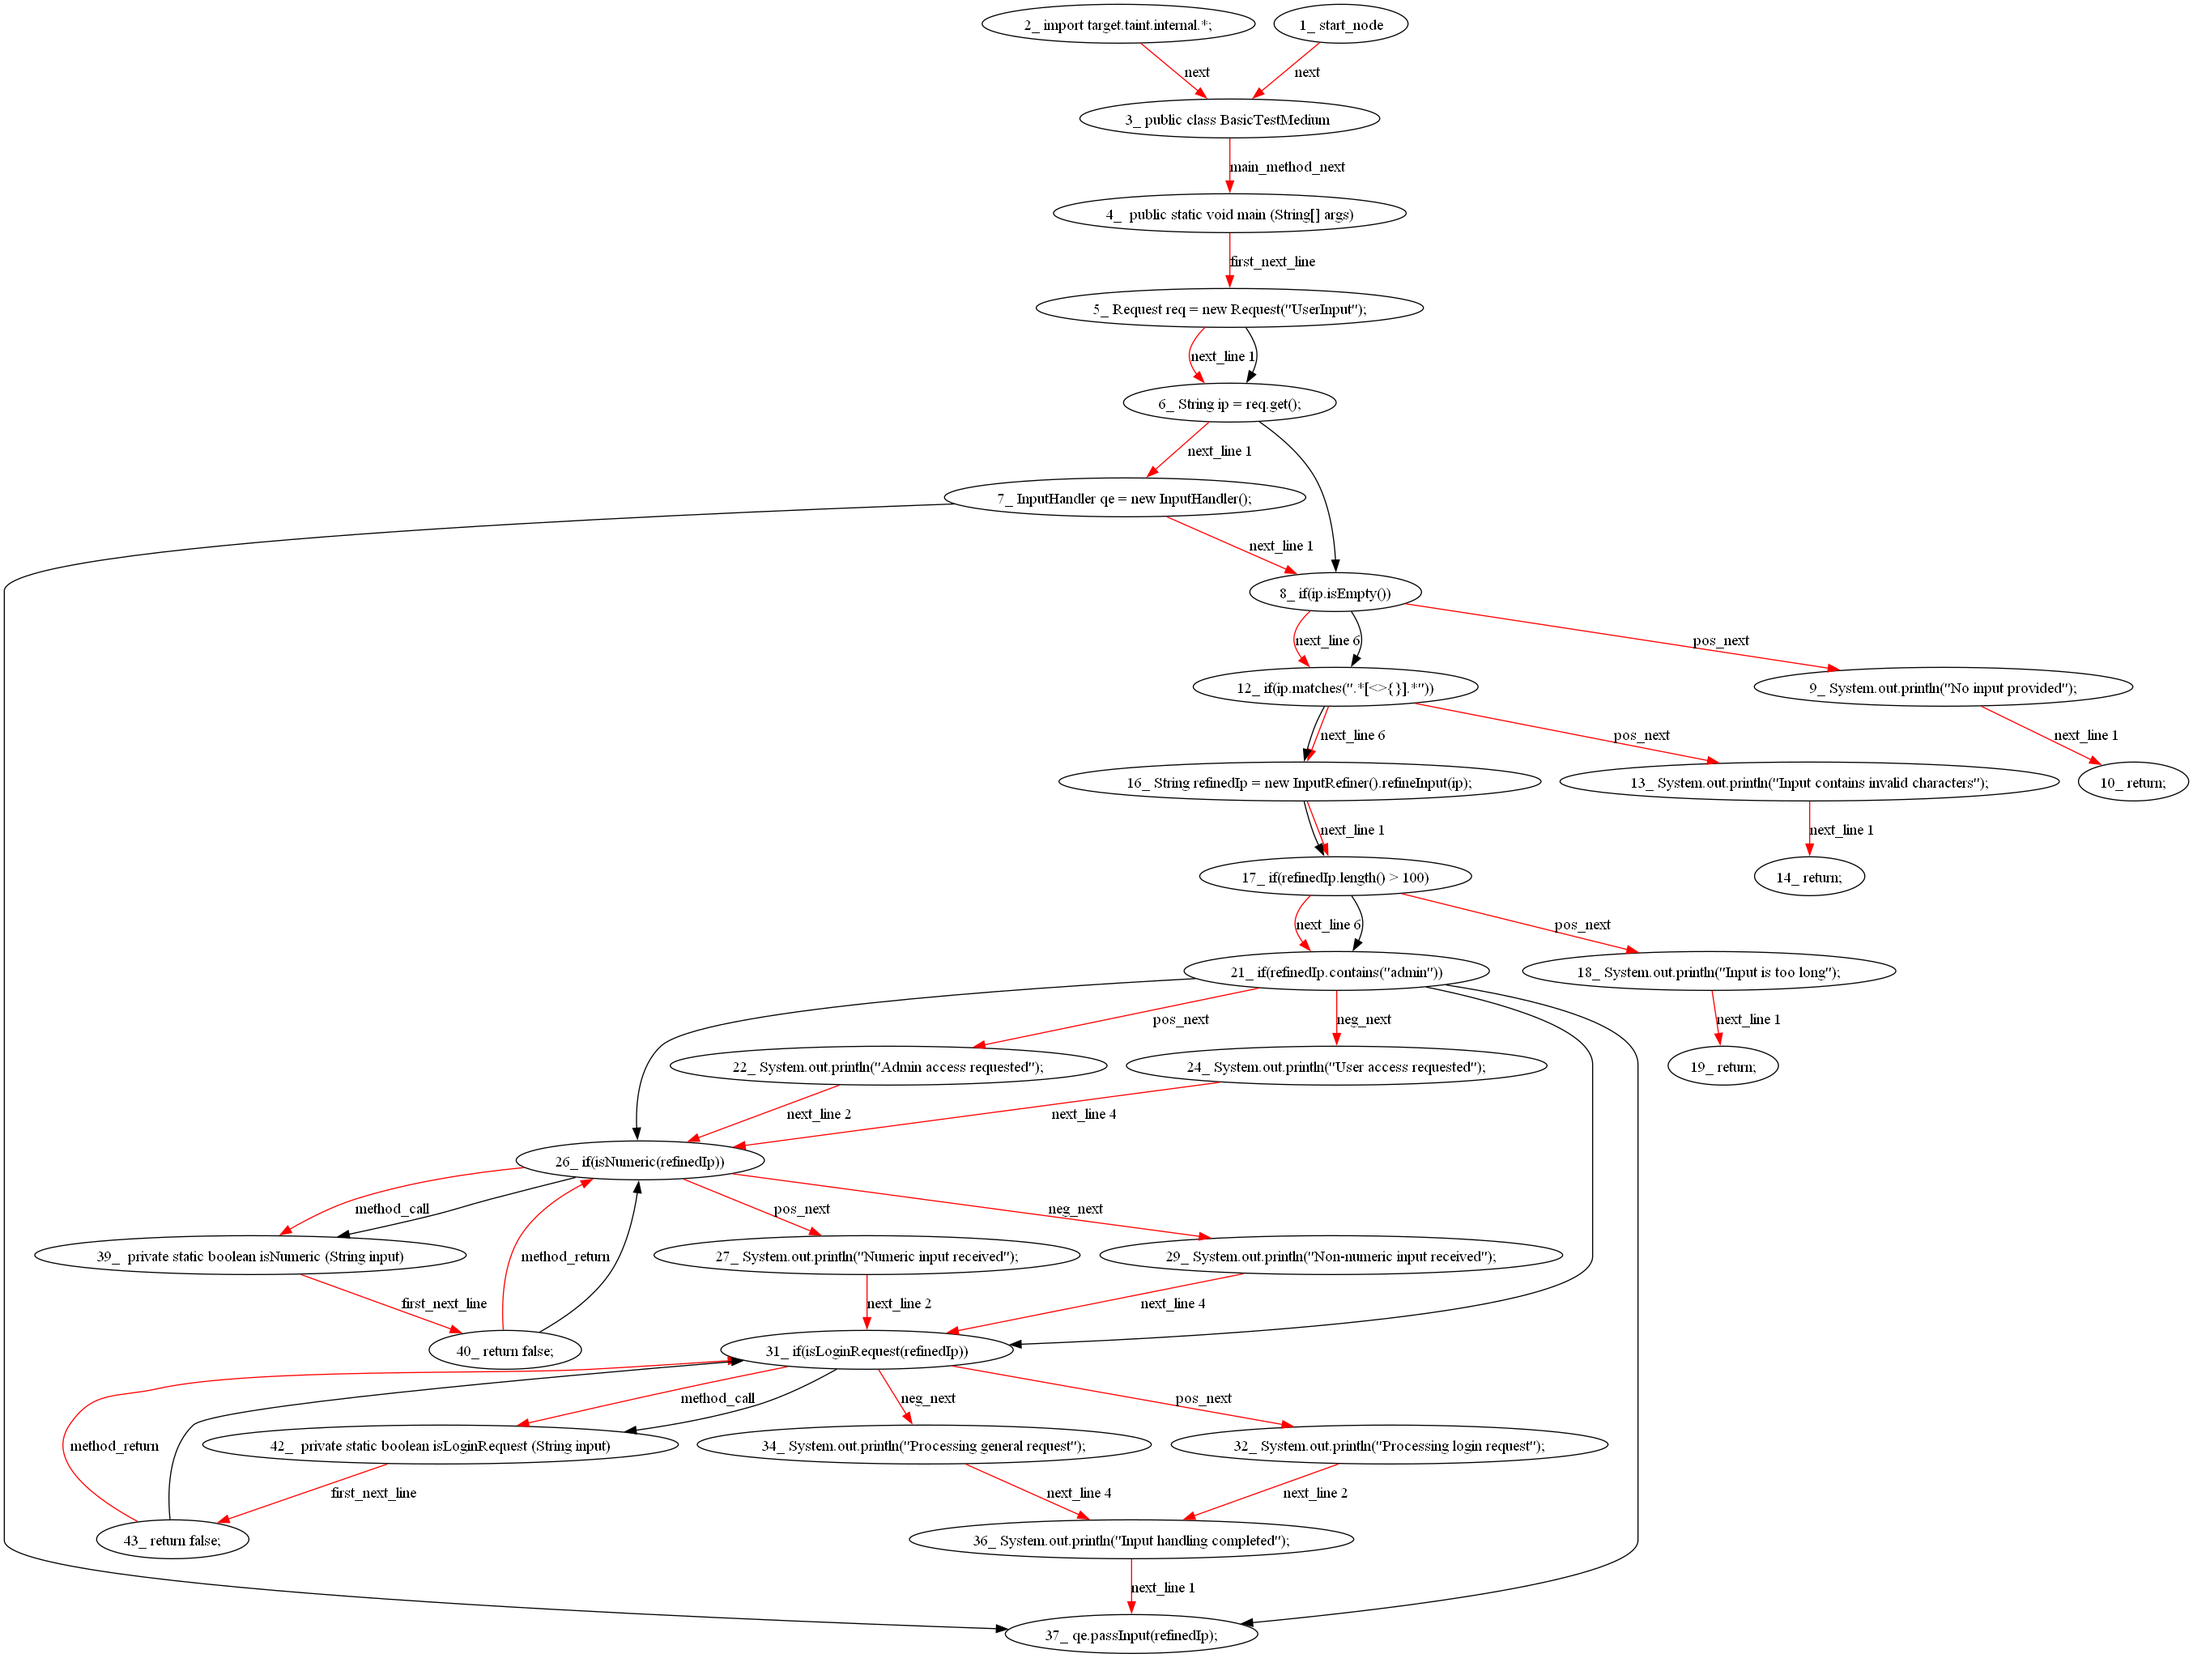
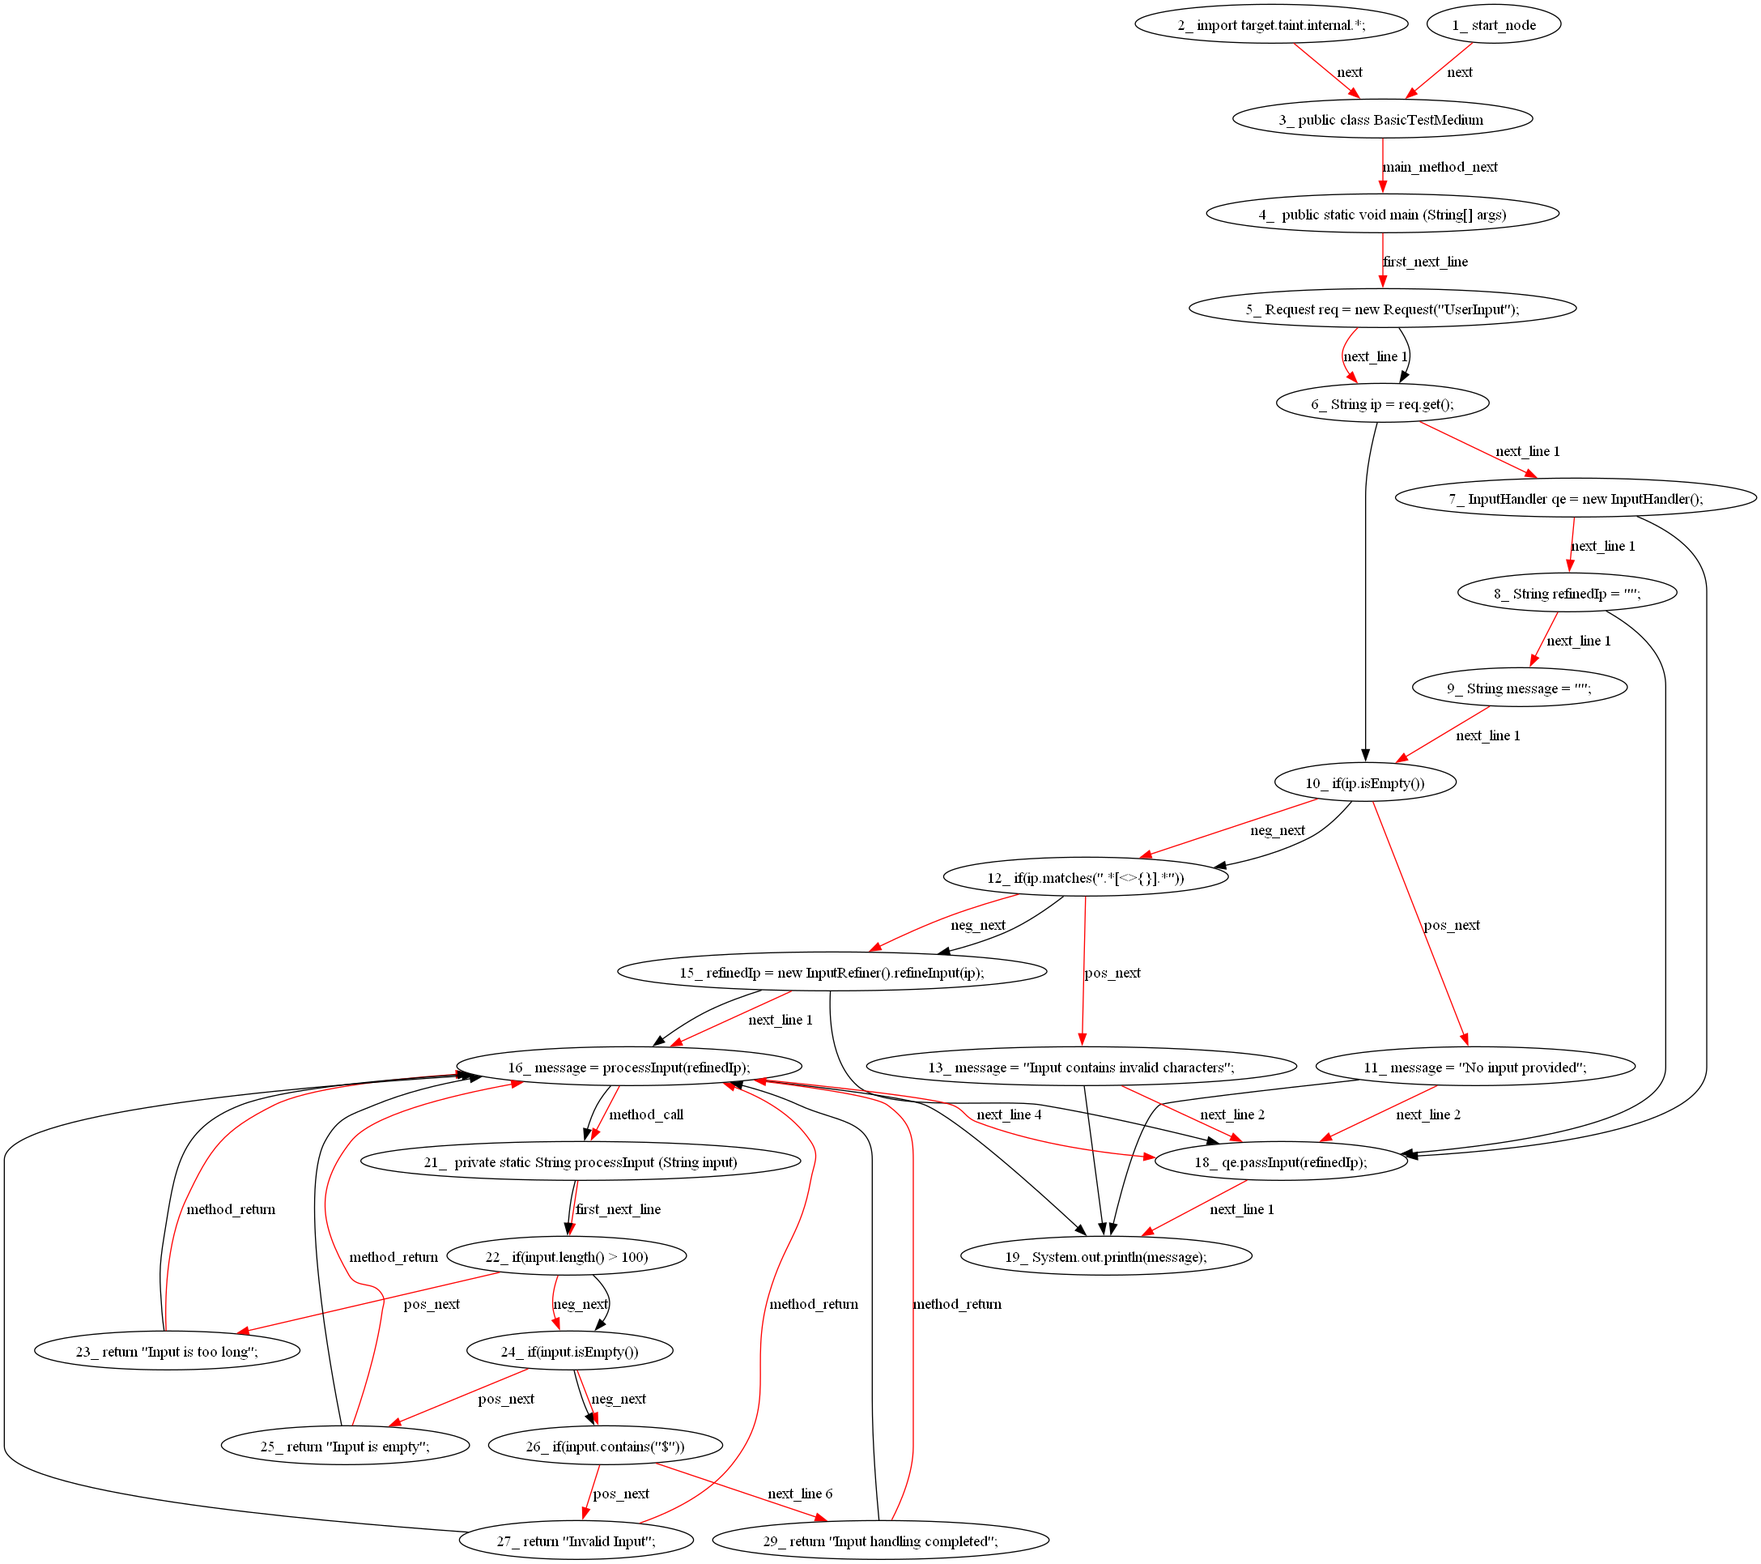
changed the basic medium code

diff --git a/src/test/java/target/taint/BasicTestMedium.java b/src/test/java/target/taint/BasicTestMedium.java
@@ -6,7 +6,6 @@ public class BasicTestMedium {
         String ip = req.get();
         InputHandler qe = new InputHandler();
         String refinedIp = "";
-        // Initial checks are condensed into a single message variable
         String message = "";
         if (ip.isEmpty()) {
             message = "No input provided";
@@ -15,29 +14,18 @@ public class BasicTestMedium {
         } else {
             refinedIp = new InputRefiner().refineInput(ip);
             message = processInput(refinedIp);
-
         }
-        // Print the final message
         qe.passInput(refinedIp); // Pass the input only if it passes initial checks
         System.out.println(message);
     }
     private static String processInput(String input) {
-        // Single branching scenario
         if (input.length() > 100) {
             return "Input is too long";
+        } else if (input.isEmpty()){
+            return "Input is empty";
+        } else if (input.contains("$")){
+            return "Invalid Input";
         }
-        // Assignment propagation
-        String accessType = input.contains("admin") ? "Admin access requested" : "User access requested";
-        String inputType = isNumeric(input) ? "Numeric input" : "Non-numeric input";
-        String requestType = isLoginRequest(input) ? "Login request" : "General request";
-
-        // Constructing a consolidated message
-        return accessType + "\n" + inputType + "\n" + requestType + "\nInput handling completed";
-    }
-    private static boolean isNumeric(String input) {
-        return false; // Placeholder
-    }
-    private static boolean isLoginRequest(String input) {
-        return false; // Placeholder
+        return "Input handling completed";
     }
 }
